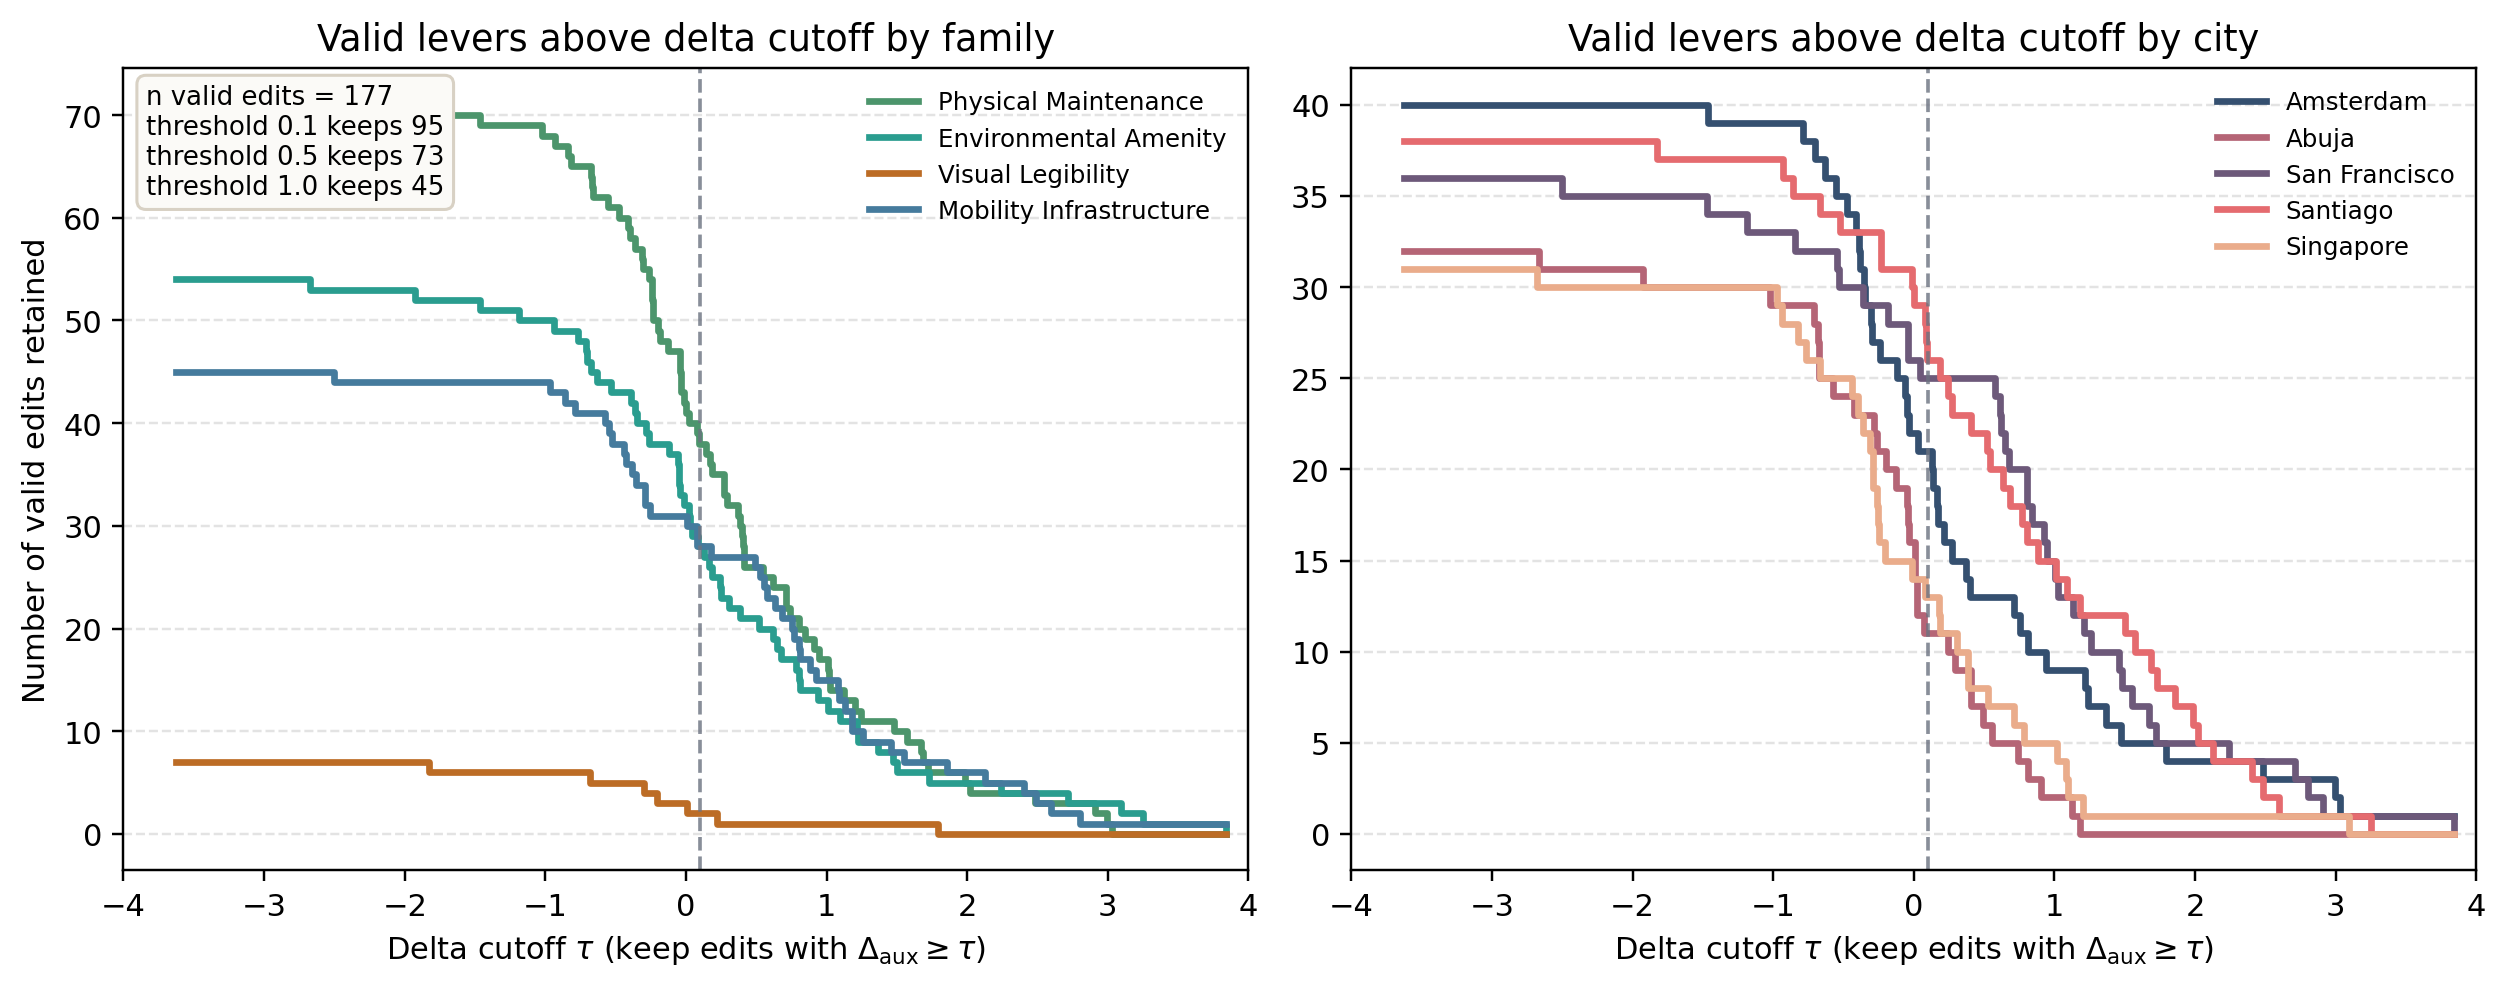
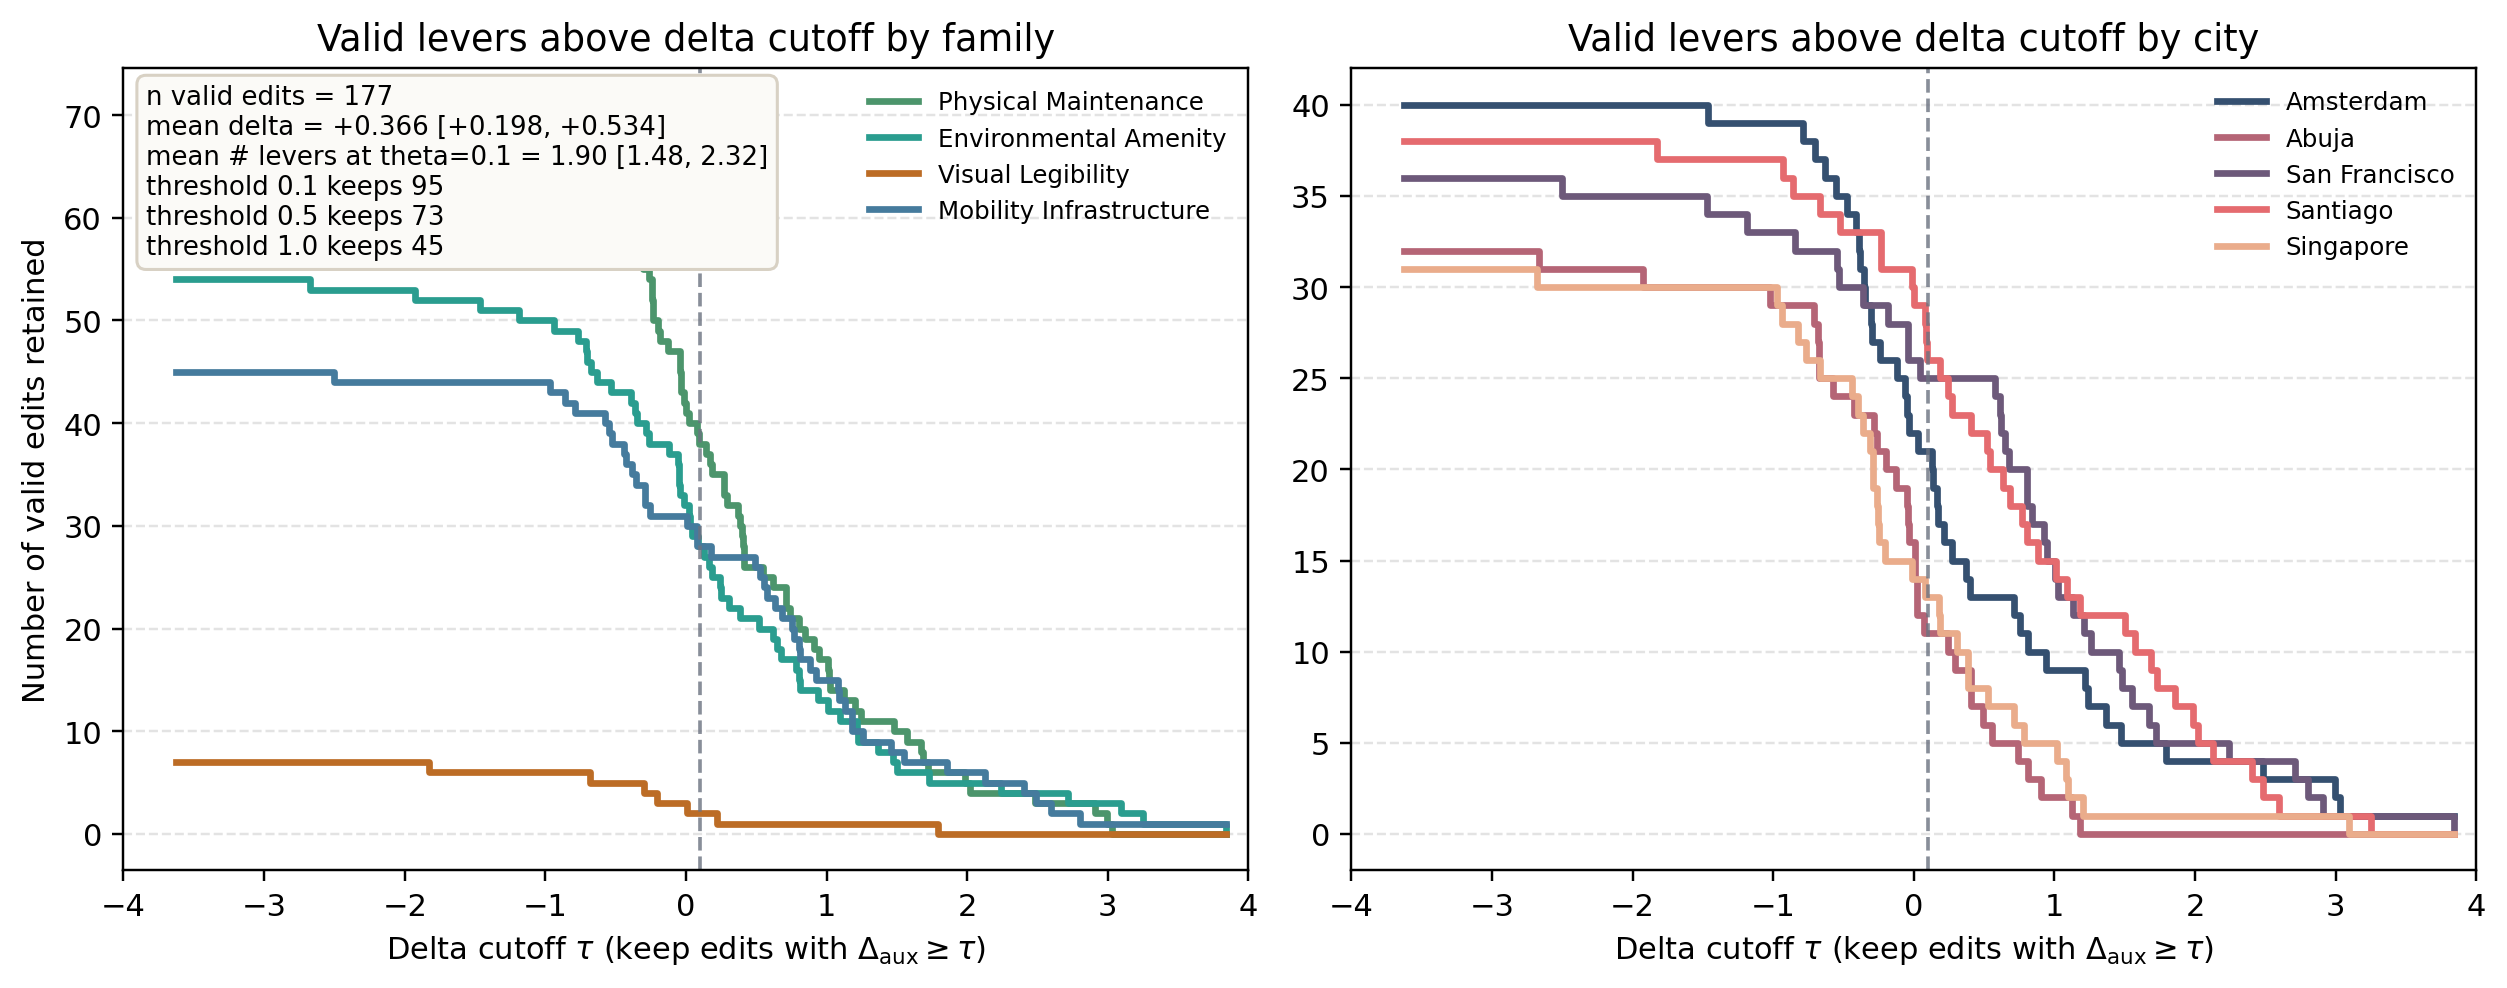
Report delta CI and theta-effective lever counts

Changed region(s): [[0.0622, 0.0911, 0.3111, 0.2733], [0.2489, 0.2126, 0.3111, 0.2733], [0.2489, 0.0607, 0.3111, 0.0911]]

diff --git a/scripts/plot_delta_cutoff_counts.py b/scripts/plot_delta_cutoff_counts.py
@@ -3,7 +3,9 @@ from __future__ import annotations
 import argparse
 import csv
 from collections import defaultdict
+import math
 from pathlib import Path
+import statistics
 
 import matplotlib.pyplot as plt
 import numpy as np
@@ -54,6 +56,11 @@ def parse_args() -> argparse.Namespace:
         default="data/03_eval_results/specs_paper_n50_delta_cutoff_report.csv",
         help="Optional CSV path for counts at selected cutoff values.",
     )
+    parser.add_argument(
+        "--summary-csv",
+        default="data/03_eval_results/specs_paper_n50_per_image_auxiliary.csv",
+        help="Per-image summary CSV from scripts.run_analysis.",
+    )
     return parser.parse_args()
 
 
@@ -65,6 +72,29 @@ def read_csv(path: str | Path) -> list[dict[str, str]]:
 def canonical_city_order(manifest_rows: list[dict[str, str]]) -> list[str]:
     seen = {row["city"] for row in manifest_rows}
     return [city for city in CITY_ORDER if city in seen]
+
+
+def round_or_none(value: float | None, digits: int = 3) -> float | None:
+    if value is None:
+        return None
+    return round(value, digits)
+
+
+def safe_mean(values: list[float]) -> float | None:
+    if not values:
+        return None
+    return float(statistics.mean(values))
+
+
+def mean_confidence_interval(values: list[float], z: float = 1.96) -> tuple[float | None, float | None]:
+    if not values:
+        return None, None
+    if len(values) == 1:
+        return values[0], values[0]
+    mean_value = statistics.mean(values)
+    stdev = statistics.stdev(values)
+    margin = z * (stdev / math.sqrt(len(values)))
+    return mean_value - margin, mean_value + margin
 
 
 def build_series(
@@ -95,29 +125,41 @@ def write_report(
     for cutoff in DEFAULT_REPORT_CUTOFFS:
         kept = [row for row in rows if float(row["delta_classifier"]) >= cutoff]
 
-        family_counts = defaultdict(int)
-        city_counts = defaultdict(int)
+        family_rows = defaultdict(list)
+        city_rows = defaultdict(list)
         for row in kept:
-            family_counts[row["lever_family"]] += 1
-            city_counts[city_by_image[row["image_id"]]] += 1
+            family_rows[row["lever_family"]].append(row)
+            city_rows[city_by_image[row["image_id"]]].append(row)
 
         for family in FAMILY_ORDER:
+            scoped = family_rows[family]
+            scoped_deltas = [float(row["delta_classifier"]) for row in scoped]
+            delta_ci_low, delta_ci_high = mean_confidence_interval(scoped_deltas)
             records.append(
                 {
                     "group_kind": "family",
                     "group_name": family,
                     "cutoff": cutoff,
-                    "count_valid_edits_ge_cutoff": family_counts[family],
+                    "count_valid_edits_ge_cutoff": len(scoped),
+                    "mean_delta_aux_ge_cutoff": round_or_none(safe_mean(scoped_deltas)),
+                    "mean_delta_aux_ci_low": round_or_none(delta_ci_low),
+                    "mean_delta_aux_ci_high": round_or_none(delta_ci_high),
                 }
             )
         for city in CITY_ORDER:
             if city in city_by_image.values():
+                scoped = city_rows[city]
+                scoped_deltas = [float(row["delta_classifier"]) for row in scoped]
+                delta_ci_low, delta_ci_high = mean_confidence_interval(scoped_deltas)
                 records.append(
                     {
                         "group_kind": "city",
                         "group_name": city,
                         "cutoff": cutoff,
-                        "count_valid_edits_ge_cutoff": city_counts[city],
+                        "count_valid_edits_ge_cutoff": len(scoped),
+                        "mean_delta_aux_ge_cutoff": round_or_none(safe_mean(scoped_deltas)),
+                        "mean_delta_aux_ci_low": round_or_none(delta_ci_low),
+                        "mean_delta_aux_ci_high": round_or_none(delta_ci_high),
                     }
                 )
 
@@ -131,6 +173,9 @@ def write_report(
                 "group_name",
                 "cutoff",
                 "count_valid_edits_ge_cutoff",
+                "mean_delta_aux_ge_cutoff",
+                "mean_delta_aux_ci_low",
+                "mean_delta_aux_ci_high",
             ],
         )
         writer.writeheader()
@@ -141,6 +186,7 @@ def main() -> None:
     args = parse_args()
     manifest_rows = read_csv(args.manifest_csv)
     scored_rows = read_csv(args.scored_csv)
+    summary_rows = read_csv(args.summary_csv)
 
     city_by_image = {row["image_id"]: row["city"] for row in manifest_rows}
     valid_rows = [row for row in scored_rows if row.get("critic_is_valid") == "True"]
@@ -151,6 +197,15 @@ def main() -> None:
         row["city"] = city_by_image[row["image_id"]]
 
     deltas = [float(row["delta_classifier"]) for row in valid_rows]
+    mean_delta = safe_mean(deltas)
+    mean_delta_ci_low, mean_delta_ci_high = mean_confidence_interval(deltas)
+    aux_effective_counts = [
+        float(row["n_auxiliary_effective_levers"])
+        for row in summary_rows
+        if row.get("n_auxiliary_effective_levers") not in {"", None}
+    ]
+    mean_aux_effective = safe_mean(aux_effective_counts)
+    mean_aux_effective_ci_low, mean_aux_effective_ci_high = mean_confidence_interval(aux_effective_counts)
     x_min = float(np.floor(min(deltas) * 2.0) / 2.0)
     x_max = float(np.ceil(max(deltas) * 2.0) / 2.0)
 
@@ -208,6 +263,8 @@ def main() -> None:
 
     summary_lines = [
         f"n valid edits = {len(valid_rows)}",
+        f"mean delta = {mean_delta:+.3f} [{mean_delta_ci_low:+.3f}, {mean_delta_ci_high:+.3f}]",
+        f"mean # levers at theta=0.1 = {mean_aux_effective:.2f} [{mean_aux_effective_ci_low:.2f}, {mean_aux_effective_ci_high:.2f}]",
         f"threshold 0.1 keeps {sum(delta >= 0.1 for delta in deltas)}",
         f"threshold 0.5 keeps {sum(delta >= 0.5 for delta in deltas)}",
         f"threshold 1.0 keeps {sum(delta >= 1.0 for delta in deltas)}",

diff --git a/paper/sec/4_results.tex b/paper/sec/4_results.tex
@@ -29,9 +29,11 @@ analysis is in Appendix~\ref{sec:validity_appendix}.
 
 \noindent\textbf{Auxiliary directional shifts.}
 Among the 177 valid edits, the auxiliary scorer produces a mean shift of
-$+0.366$ (median $+0.184$, range $[-3.624, +3.842]$). Using threshold
-$\theta_{\mathrm{aux}}{=}0.1$, 95 of 177 valid edits fall in
-$E_{\mathrm{aux}}(x,a)$. The strongest positive examples come from
+$+0.366$ (95\% CI $[+0.198, +0.534]$, median $+0.184$, range
+$[-3.624, +3.842]$). Using threshold $\theta_{\mathrm{aux}}{=}0.1$,
+95 of 177 valid edits fall in $E_{\mathrm{aux}}(x,a)$, corresponding to
+a mean of 1.90 auxiliary-effective levers per scene
+(95\% CI $[1.476, 2.324]$). The strongest positive examples come from
 lane-marking repainting, crosswalk repainting, and localized greenery
 addition. At the same time, some valid edits remain neutral or
 negative, reinforcing the distinction between valid realization and
@@ -128,6 +130,24 @@ slightly negative on average. The important point is that the final
 rerun removes the earlier planner/API imbalance, so these city
 comparisons are no longer confounded by missing candidate generation.
 
+\noindent\textbf{Thresholded auxiliary-effect distribution.}
+Figure~\ref{fig:delta_cutoff_counts} complements the mean-shift summary
+by showing how many valid edits remain above increasingly strict
+auxiliary thresholds, broken out by family and city. At the study
+threshold $\theta_{\mathrm{aux}}{=}0.1$, Mobility Infrastructure
+retains 28 valid edits with mean retained shift $+1.270$
+(95\% CI $[+0.958, +1.583]$), Physical Maintenance retains 38 with mean
+$+1.044$ (95\% CI $[+0.793, +1.296]$), and Environmental Amenity
+retains 27 with mean $+1.168$ (95\% CI $[+0.821, +1.516]$). Visual
+Legibility contributes only two retained edits, so its interval is
+necessarily wide. By city, San Francisco and Santiago dominate the
+positive tail at $\theta_{\mathrm{aux}}{=}0.1$ with 25 and 26 retained
+edits respectively, while Abuja retains only 11. As the cutoff rises to
+$1.0$, the family ranking compresses but Environmental Amenity and
+Mobility Infrastructure still retain strong positive tails, and
+Amsterdam, San Francisco, and Santiago remain the cities with the
+largest high-delta pools.
+
 \noindent\textbf{Qualitative examples.}
 Figure~\ref{fig:qualitative} shows the top three positive auxiliary-shift
 examples from distinct scenes: lane-marking repainting in Amsterdam,
@@ -164,4 +184,18 @@ We revisit this null result in \S\ref{sec:discussion}.
     (Spearman $\rho{=}0.095$, $p{=}0.511$).
   }
   \label{fig:baseline_vs_valid}
+\end{figure}
+
+\begin{figure}[t]
+  \centering
+  \includegraphics[width=\columnwidth]{figures/figure_5_delta_cutoff_counts.png}
+  \caption{
+    Number of valid edits retained above auxiliary-score cutoff
+    $\Delta_{\mathrm{aux}} \geq \tau$, split by lever family (left) and
+    city (right). The annotation reports the overall mean
+    $\Delta_{\mathrm{aux}}$ with 95\% CI and the mean number of
+    $\theta_{\mathrm{aux}}{=}0.1$-effective levers per scene with
+    95\% CI.
+  }
+  \label{fig:delta_cutoff_counts}
 \end{figure}

diff --git a/scripts/summarize_paper_results.py b/scripts/summarize_paper_results.py
@@ -96,6 +96,17 @@ def round_or_none(value: float | None, digits: int = 3) -> float | None:
     return round(value, digits)
 
 
+def mean_confidence_interval(values: list[float], z: float = 1.96) -> tuple[float | None, float | None]:
+    if not values:
+        return None, None
+    if len(values) == 1:
+        return values[0], values[0]
+    mean_value = statistics.mean(values)
+    stdev = statistics.stdev(values)
+    margin = z * (stdev / math.sqrt(len(values)))
+    return mean_value - margin, mean_value + margin
+
+
 def wilson_interval(successes: int, total: int, z: float = 1.96) -> tuple[float | None, float | None]:
     if total <= 0:
         return None, None
@@ -168,6 +179,13 @@ def summarize(args: argparse.Namespace) -> dict[str, Any]:
     valid_rows = [row for row in scored_candidate_rows if coerce_bool(row.get("critic_is_valid"))]
     valid_deltas = [float(row["delta_classifier"]) for row in valid_rows if row.get("delta_classifier") not in {"", None}]
     overall_ci_low, overall_ci_high = wilson_interval(len(valid_rows), len(candidate_rows))
+    mean_delta_ci_low, mean_delta_ci_high = mean_confidence_interval(valid_deltas)
+    aux_effective_counts = [
+        float(row["n_auxiliary_effective_levers"])
+        for row in per_image_rows
+        if row.get("n_auxiliary_effective_levers") not in {"", None}
+    ]
+    mean_aux_effective_ci_low, mean_aux_effective_ci_high = mean_confidence_interval(aux_effective_counts)
 
     overall = {
         "n_images": len(per_image_rows),
@@ -184,10 +202,15 @@ def summarize(args: argparse.Namespace) -> dict[str, Any]:
         "valid_rate_ci_low": round_or_none(overall_ci_low),
         "valid_rate_ci_high": round_or_none(overall_ci_high),
         "mean_delta_aux": round_or_none(safe_mean(valid_deltas)),
+        "mean_delta_aux_ci_low": round_or_none(mean_delta_ci_low),
+        "mean_delta_aux_ci_high": round_or_none(mean_delta_ci_high),
         "median_delta_aux": round_or_none(safe_median(valid_deltas)),
         "min_delta_aux": round_or_none(min(valid_deltas) if valid_deltas else None),
         "max_delta_aux": round_or_none(max(valid_deltas) if valid_deltas else None),
         "n_aux_effective": sum(coerce_bool(row.get("exceeds_auxiliary_threshold")) for row in valid_rows),
+        "mean_aux_effective_per_image": round_or_none(safe_mean(aux_effective_counts)),
+        "mean_aux_effective_per_image_ci_low": round_or_none(mean_aux_effective_ci_low),
+        "mean_aux_effective_per_image_ci_high": round_or_none(mean_aux_effective_ci_high),
     }
 
     family_table: list[dict[str, Any]] = []

diff --git a/paper/sec/6_discussion.tex b/paper/sec/6_discussion.tex
@@ -28,6 +28,19 @@ maintenance and roadway-marking interventions realise reliably, while
 lighting repair and canopy-management edits remain harder to realise or
 less consistently aligned with auxiliary safety improvement.
 
+\noindent\textbf{Mean effects versus retained positive tail.}
+The new cutoff analysis sharpens that point. Family-level mean
+$\Delta_{\mathrm{aux}}$ is useful, but it can hide whether a family
+produces a broad pool of modestly positive edits or a narrow pool of
+high-impact ones. Mobility Infrastructure remains strong under stricter
+cutoffs, while Environmental Amenity looks bimodal: localized greenery
+addition drives a substantial positive tail, but lighting repair and
+tree canopy management dilute the family mean. This is a more useful
+screen for downstream human evaluation than raw validity alone, because
+it identifies which families continue to supply multiple
+$\theta_{\mathrm{aux}}$-effective candidates once neutral edits are
+removed.
+
 \noindent\textbf{Critic calibration.}
 The VLM critic (GPT-5.2) has not been calibrated against human raters.
 Even with 177 accepted edits, a modest false-positive or false-negative
@@ -54,6 +67,14 @@ Santiago and San Francisco. These differences do not yet justify strong
 substantive city-level claims, but they do suggest that both
 realisability and perceived effect are context-sensitive rather than
 uniform across urban settings.
+
+The thresholded view makes the heterogeneity more concrete. San
+Francisco and Santiago contribute the largest pools of
+$\theta_{\mathrm{aux}}$-effective edits, and Amsterdam stays competitive
+once the cutoff is raised, whereas Abuja falls off more quickly. That
+pattern suggests the practical ceiling is not only whether a scene
+admits valid levers, but whether it admits \emph{multiple} visibly
+grounded edits that survive increasingly strict directional thresholds.
 
 \noindent\textbf{Human evaluation.}
 The present paper reports automated auditing and auxiliary-scorer
